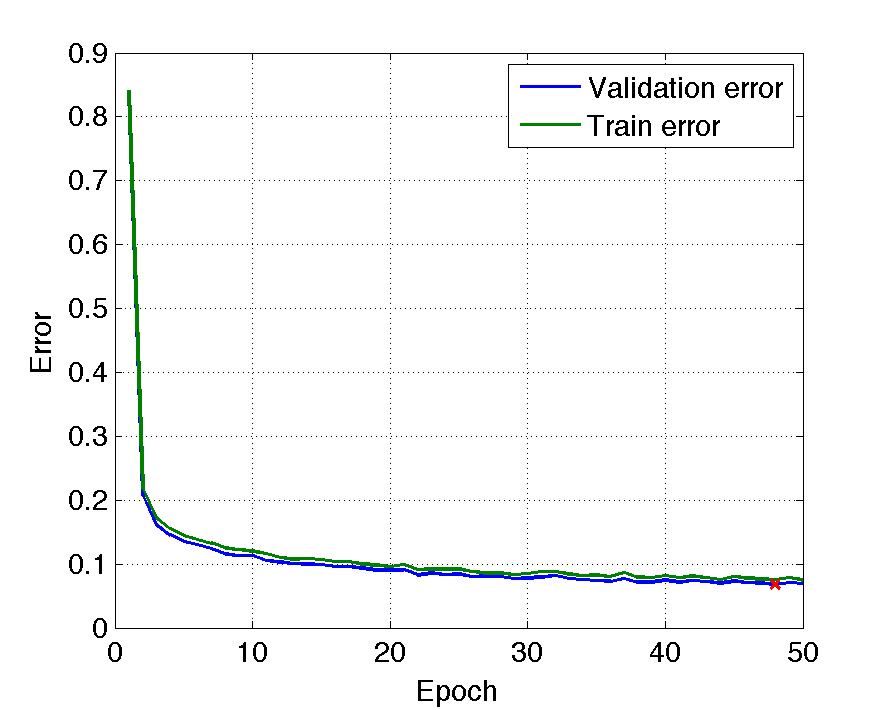
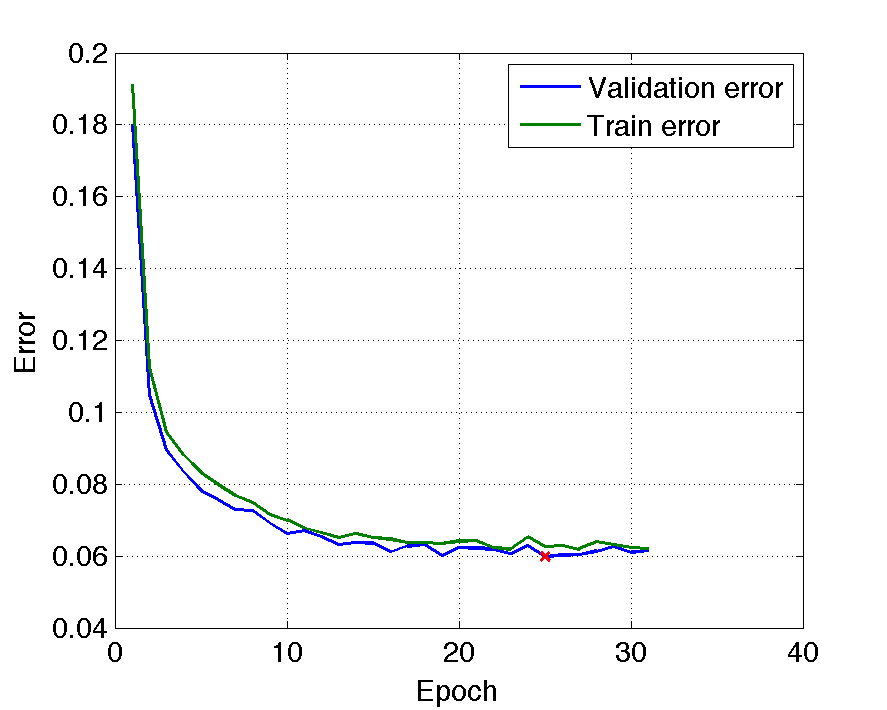
update example2

diff --git a/tests/test_example_DBN.m b/tests/test_example_DBN.m
@@ -22,37 +22,36 @@ train_x = double(train_x)/255;
 % test_y  = double(test_y(1:1000));
 
 
-%%  Generative RBM with 100 hidden units and contrastive divergence
+%%  Generative RBM with 200 hidden units and contrastive divergence
 % note that the learningrate and the momentum must be specified as functions.
-% This allows for decaying learningrate and momentum rampup.
-% The example uses momentum with rampup and decaying learning rate
+rng('default');rng(0);
+load mnist_uint8;
+train_x = double(train_x)/255;
+train_y = double(train_y);
 
-rng('default');rng(1);
-sizes = [500];
 
+sizes = [200];   % hidden layer size
 [opts, valid_fields] = dbncreateopts();
-opts.numepochs = 50;
-opts.traintype = 'CD'
+
+opts.numepochs = 30;
+opts.traintype = 'CD';
+opts.classRBM = 0;
+opts.y_train = train_y;
+opts.test_interval = 1;
 opts.train_func = @rbmgenerative;
+opts.init_type = 'cRBM';
 
-T = 25;       % momentum ramp up
-p_f = 0.9;    % final momentum
-p_i = 0.5;    % initial momentum
-opts.momentum     = @(t) ifelse(t < T, p_i*(1-t/T)+(t/T)*p_f,p_f);
+% Set learningrate
+opts.learningrate = @(t,momentum) 0.05;
+opts.momentum     = @(t) 0;
 
-eps = 0.05;    % initial learning rate
-f = 0.97;     % learning rate decay
-opts.learningrate = @(t,momentum) eps.*f.^t*(1-momentum);
-
-%opts.momentum = @(t) 0;
-dbncheckopts(opts,valid_fields);
-dbn = dbnsetup(sizes, train_x, opts);
- 
+dbncheckopts(opts,valid_fields);       %checks for validity of opts struct
+disp(opts)
+dbn = dbnsetup(sizes, train_x, opts);  % train function 
 dbn = dbntrain(dbn, train_x, opts);
-figure;visualize(dbn.rbm{1}.W(1:144,:)');
-set(gca,'visible','off');
 
-%% example 2
+%% example 2 classification RBM with CD training
+clear all
 rng('default');rng(0);
 load mnist_uint8;
 train_x = double(train_x)/255;
@@ -60,7 +59,7 @@ test_x  = double(test_x)/255;
 train_y = double(train_y);
 test_y = double(test_y);
 
-sizes = [500];   % hidden layer size
+sizes = [200];   % hidden layer size
 [opts, valid_fields] = dbncreateopts();
 opts.early_stopping = 1;
 opts.patience = 5;
@@ -73,32 +72,29 @@ opts.x_val = test_x;
 opts.y_val = test_y;
 opts.test_interval = 1;
 opts.train_func = @rbmgenerative;
+opts.init_type = 'cRBM';
 
-%% Set learningrate
-eps       		  = 0.05;    % initial learning rate
-f                 = 0.97;      % learning rate decay
-opts.learningrate = @(t,momentum) eps.*f.^t*(1-momentum);
-
-% Set momentum
-T             = 25;       % momentum ramp up
-p_f 		  = 0.9;    % final momentum
-p_i           = 0.5;    % initial momentum
-opts.momentum = @(t) ifelse(t < T, p_i*(1-t/T)+(t/T)*p_f,p_f);
+% Set learningrate
+opts.learningrate = @(t,momentum) 0.05;
+opts.momentum     = @(t) 0;
 
 dbncheckopts(opts,valid_fields);       %checks for validity of opts struct
+disp(opts)
 dbn = dbnsetup(sizes, train_x, opts);  % train function 
 dbn = dbntrain(dbn, train_x, opts);
 
-%% Do predictions
+% Do predictions
 pred_val = dbnpredict(dbn,test_x);
 [~, labels_val] = max(test_y,[],2);
 acc_val = mean(pred_val == labels_val);
+err_val = 1-acc_val
 
-%% plot weights 
+% plot weights 
 figure;visualize(dbn.rbm{1}.W(1:144,:)'); 
 set(gca,'visible','off');
 
-%% plot errors
+
+% plot errors
 plot([dbn.rbm{1}.val_error',dbn.rbm{1}.train_error'])
 legend({'Validation error','Train error'})
 [min_val,min_idx] =  min(dbn.rbm{1}.val_error);

diff --git a/README.md b/README.md
@@ -17,7 +17,6 @@ RBM toolbox support among others:
  * Support for custom error functions
 
 
-
 # Settings
 
 ## training objectives
@@ -32,6 +31,21 @@ The RBM toolbox supports four different TBM training objectives. For a detailed 
 
 
 The RBM training objective is set by supplying a function handle to one of the four training functions through `opts.train_func` 
+
+## weight initialization 
+Initial weights are either sampled from a normal distriubtion [3] or from a uniform distribution [7], the behaivior is controlled thorugh ```opts.init_type```:
+
+```MATLAB
+switch lower(opts.init_type)
+    case 'gauss'
+        initfunc = @(m,n) normrnd(0,0.01,m,n);
+    case 'crbm'
+        initfunc = @(m,n) (rand(m,n)-0.5) ./ max([m n]);
+    otherwise
+        error('init_type should be either gauss or cRBM');
+end
+```
+
 
 ## Regularization
 
@@ -52,6 +66,7 @@ The table shows which fields in the opts struct that applies to the different tr
 
 |Setting   					| @genrative  	| @discriminative  	| @rbmhybrid  	| @rbmsemisublearn  	
 |---						|---			|---				|---		 	|---					|
+|init_type               	|  x 			|   x				|   	x		|  x 					|
 |traintype   				|  x 			|	   				|   	x		|  x 					|
 |cdn   						|  x 			|   				|   	x		|  x 					|
 |numepochs   				|  x 			|   x				|   	x		|  x 					| 
@@ -122,12 +137,7 @@ figure;visualize(dbn.rbm{1}.W(1:144,:)');
 set(gca,'visible','off');
 ```
 
-In the example the learningrate (blue) starts at *0.05* and decays with each epoch. The momentum (green) ramps up over 25 epochs, as shown in the figure. 
-
-<html>
-<img src="/uploads/learnmom.png" height="350" width="350"> 
-
-Finally the weights can be visualized:
+Visualization of weights:
 
 <html>
 <img src="/uploads/example1_weights.png" height="500" width="500"> 
@@ -147,7 +157,7 @@ test_x  = double(test_x)/255;
 train_y = double(train_y);
 test_y = double(test_y);
 
-sizes = [500];   % hidden layer size
+sizes = [200];  
 [opts, valid_fields] = dbncreateopts();
 opts.early_stopping = 1;
 opts.patience = 5;
@@ -160,38 +170,35 @@ opts.x_val = test_x;
 opts.y_val = test_y;
 opts.test_interval = 1;
 opts.train_func = @rbmgenerative;
+opts.init_type = 'cRBM';
 
-%% Set learningrate
-eps       		  = 0.05;    % initial learning rate
-f                 = 0.97;      % learning rate decay
-opts.learningrate = @(t,momentum) eps.*f.^t*(1-momentum);
+opts.learningrate = @(t,momentum) 0.05;
+opts.momentum     = @(t) 0;
 
-% Set momentum
-T             = 25;       % momentum ramp up
-p_f 		  = 0.9;    % final momentum
-p_i           = 0.5;    % initial momentum
-opts.momentum = @(t) ifelse(t < T, p_i*(1-t/T)+(t/T)*p_f,p_f);
-
-dbncheckopts(opts,valid_fields);       %checks for validity of opts struct
-dbn = dbnsetup(sizes, train_x, opts);  % train function 
+dbncheckopts(opts,valid_fields);       
+disp(opts)
+dbn = dbnsetup(sizes, train_x, opts);  
 dbn = dbntrain(dbn, train_x, opts);
 
-%% Do predictions
+% Make predictions
 pred_val = dbnpredict(dbn,test_x);
 [~, labels_val] = max(test_y,[],2);
 acc_val = mean(pred_val == labels_val);
+err_val = 1-acc_val
 
-%% plot weights 
+% plot weights 
 figure;visualize(dbn.rbm{1}.W(1:144,:)'); 
 set(gca,'visible','off');
 
-%% plot errors
+
+% plot errors
 plot([dbn.rbm{1}.val_error',dbn.rbm{1}.train_error'])
 legend({'Validation error','Train error'})
 [min_val,min_idx] =  min(dbn.rbm{1}.val_error);
 hold on; plot(min_idx,min_val,'xr'); hold off;
 xlabel('Epoch'); ylabel('Error'); grid on;
 ```
+
 For classification RBM's predictions can be calculated by `dbnpredict` wich returns a label or with 
 `dbnclassprobs` wich returns the predicted class probabilities. 
 
